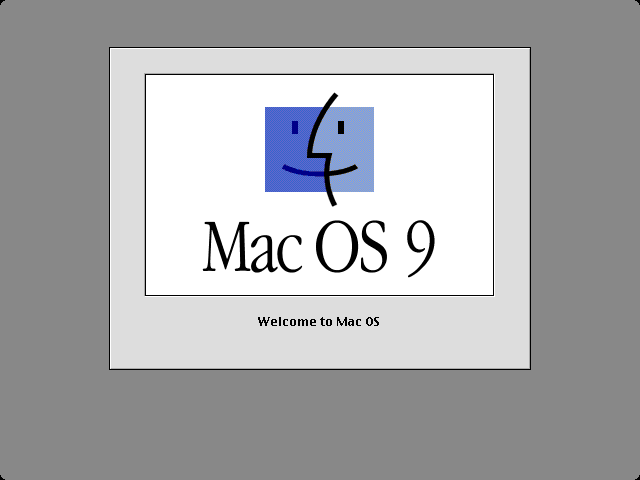
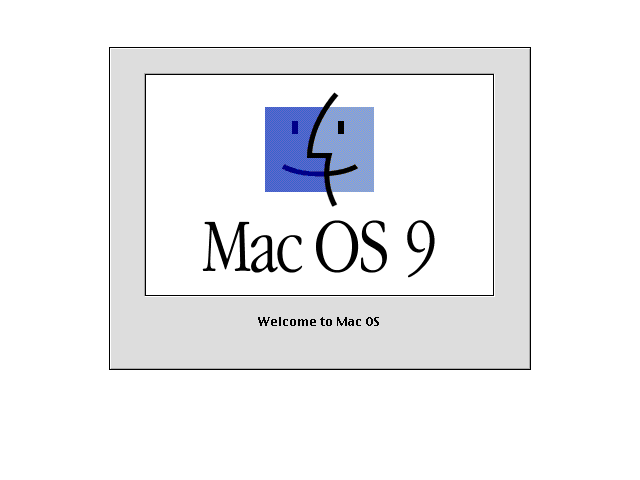
boot: the machine's whole screen at any size; phones read every line
Micah, 2026-11-08, on the Mac OS 9 startup: "absolute crap".

- The Mac boot bitmaps keep only their art (CRT corners and screen cleared);
  the page behind is the machine's own: Mac OS 9 flat #888, System 7 its 2x2
  dither. One Happy Mac silhouette cuts both icons (all 106 edge pixels match).
- Narrow screens scale to the box each boot's art fills, not to 640x480; the
  Happy Mac never drops below 48px; below 1x the art smooths instead of losing
  pixel rows. The extension parade runs along the bottom of the screen.
- The boot cuts to the desktop, no crossfade ghosting over About.
- Phones: the menu bar holds one line (period date steps aside, menus tighten,
  the clock leaves below 360px), impact rows and career heads wrap instead of
  ending in ..., the About wordmark fits, Mac OS X's lights leave the title.
- Tablets: where Appearance would cover About, About stays in front.
- Mac desktop icon names are black on a white label, as the Finder drew them.
- ?os=<system> opens a system directly (used by the breakpoint gate).

Checked by site-gate: 6 systems x 10 widths (320-1920) x Chromium and WebKit,
120 renders clean, every contact sheet read; boot frames read at 320, 390,
768, 1440 and 1920. 70 tests.

diff --git a/index.html b/index.html
@@ -712,6 +712,8 @@
       text-shadow: 0 1px 2px rgba(0,0,0,0.6), 0 0 4px rgba(0,0,0,0.3);
     }
     [data-os="mac7"] .icon-label { text-shadow: 1px 1px 0 #000; }
+    /* The Mac Finder drew desktop icon names black on a white label, legible on any picture behind them */
+    [data-os="mac7"] .icon-label, [data-os="mac9"] .icon-label { color: #000; background: #fff; text-shadow: none; }
     [data-os="win31"] .icon-label { text-shadow: none; }
     /* Themes icon dots adapt per theme */
     .ic-dot1 { fill: var(--ic-monitor-screen); }
@@ -822,7 +824,7 @@
        ============================================================ */
     .about-dialog { padding: 12px 14px 10px; }
     .ab-head { display: flex; align-items: center; gap: 14px; margin-bottom: 10px; }
-    .ab-mark { display: none; image-rendering: pixelated; flex-shrink: 0; }
+    .ab-mark { display: none; image-rendering: pixelated; flex-shrink: 0; max-width: 100%; height: auto; }
     .ab-ident { flex: 1; min-width: 0; }
     .about-name { font-size: 20px; font-weight: bold; letter-spacing: -0.3px; }
     .about-title { font-size: 13px; opacity: 0.75; margin-top: 2px; }
@@ -1125,7 +1127,7 @@
     /* ===== MENU BAR CLOCK ===== */
     .menu-clock {
       margin-left: auto; font-size: 12px; padding: 0 8px; cursor: default;
-      font-variant-numeric: tabular-nums;
+      font-variant-numeric: tabular-nums; white-space: pre;
     }
 
     /* ============================================================
@@ -1138,21 +1140,25 @@
        ============================================================ */
     .boot-overlay {
       position: fixed; inset: 0; z-index: 99999; display: flex; align-items: center; justify-content: center;
-      overflow: hidden; background: #000; opacity: 1; transition: opacity 0.3s; cursor: default; user-select: none;
+      overflow: hidden; background: #000; opacity: 1; transition: none; cursor: default; user-select: none;
     }
     .boot-overlay.fade { opacity: 0; pointer-events: none; }
     .boot-stage { position: relative; width: 640px; height: 480px; flex: none; transform-origin: center center; overflow: hidden; }
     .boot-hidden { display: none !important; }
-    .boot-ext-strip { position: absolute; left: 8px; right: 8px; bottom: 8px; display: flex; gap: 6px; align-items: flex-end; }
-    .boot-ext-chip { width: 32px; height: 32px; opacity: 0; animation: bootExtPop 0.2s steps(2) forwards; }
-    .boot-ext-chip img, .boot-ext-chip svg { width: 32px; height: 32px; image-rendering: pixelated; display: block; }
+    .boot-ext-strip { position: absolute; left: calc(8px * var(--boot-s, 1)); right: calc(8px * var(--boot-s, 1)); bottom: calc(8px * var(--boot-s, 1)); display: flex; flex-wrap: wrap-reverse; gap: calc(6px * var(--boot-s, 1)); align-items: flex-end; }
+    .boot-ext-chip { width: calc(32px * var(--boot-s, 1)); height: calc(32px * var(--boot-s, 1)); opacity: 0; animation: bootExtPop 0.2s steps(2) forwards; }
+    .boot-ext-chip img, .boot-ext-chip svg { width: 100%; height: 100%; image-rendering: pixelated; display: block; }
     @keyframes bootExtPop { to { opacity: 1; } }
     .boot-happy { position: absolute; left: 50%; top: 50%; width: 48px; height: 48px; margin: -24px 0 0 -24px; }
     .boot-happy svg { width: 100%; height: 100%; image-rendering: pixelated; }
 
     /* ---- Every screen is the period bitmap (GUIdebook startup screenshots, 640x480) with only the moving parts layered on top ---- */
     .boot-bitmap { position: absolute; left: 0; top: 0; width: 640px; height: 480px; image-rendering: pixelated; display: block; }
-    .boot-overlay.boot-mac7 { background: #808080; }
+    /* the Happy Mac never shrinks below 48px: on a phone the prelude grows about its own center */
+    .boot-bitmap.b-prelude { transform: scale(var(--happy-k, 1)); transform-origin: 319.5px 239.5px; }
+    /* below 1x, nearest-neighbor drops whole pixel rows and the Chicago lettering turns to mush: smooth instead */
+    .boot-overlay.boot-small .boot-bitmap:not(.b-prelude), .boot-overlay.boot-small .boot-ext-chip img, .boot-overlay.boot-small .boot-ext-chip svg { image-rendering: auto; }
+    .boot-overlay.boot-mac7 { background-color: #fff; background-image: conic-gradient(#000 25%, #fff 0 50%, #000 0 75%, #fff 0); background-size: 2px 2px; }
     .boot-overlay.boot-mac9 { background: #888; }
     .boot-overlay.boot-win31, .boot-overlay.boot-winxp, .boot-overlay.boot-beos { background: #000; }
     .boot-overlay.boot-aqua { background: #426bad; }
@@ -1320,6 +1326,8 @@
   .window.open { display: block !important; }
   .titlebar { cursor: pointer; border-radius: 0 !important; }
   .closebox { display: none; }
+  /* Mac OS X draws its yellow and green lights beside the close box; with it gone they sat on the title */
+  [data-os="aqua"] .titlebar::after { display: none; }
   .win-resize { display: none; }
   .win-body { padding: 12px 16px; }
   #crt-overlay { display: none !important; }
@@ -1329,13 +1337,30 @@
   [data-os="beos"] .titlebar { width: 100%; margin: 0; }
   /* the About box flows as one column on a phone */
   .about-dialog { display: block !important; }
-  .ab-row { grid-template-columns: 14px minmax(0, 1fr) auto 80px; }
+  .ab-row { grid-template-columns: 14px minmax(0, 1fr) auto 56px; }
+  /* every impact row names its work in full on a phone: the name wraps, never ends in ... */
+  .ab-row-name { white-space: normal; overflow: visible; text-overflow: clip; }
+  /* the menu bar holds on one line: the period date steps aside for the time, the menus tighten */
+  .menu-clock-era { display: none; }
+  .menu-item { padding: 2px 6px; }
+  /* a career head stacks on a phone: the employer and years sit under the title instead of running off the edge */
+  .career-head { flex-wrap: wrap; }
+  .career-head span { white-space: normal; margin-left: 0; flex-basis: 100%; }
   [data-os="beos"] .about-thesis { border-left: none; padding-left: 0; }
   /* the XP taskbar and the BeOS Deskbar are sticky top bars on a phone; menus open downward and inside the screen */
   [data-os="winxp"] #menubar { top: 0; bottom: auto; }
   [data-os="winxp"] .menu-dropdown { top: 100%; bottom: auto; }
   [data-os="beos"] #menubar { width: 100%; }
   [data-os="beos"] .menu-dropdown { left: 0; right: auto; }
+}
+@media (max-width: 400px) {
+  .menu-item { padding: 2px 4px; }
+  .menu-apple { margin-right: 6px; }
+  .menu-clock { padding: 0 4px; }
+}
+@media (max-width: 360px) {
+  /* the Mac OS 9 clock was an option (Control Panels > Date & Time); the smallest phones leave it off so every menu fits */
+  .menu-clock { display: none; }
 }
 
     /* ============================================================
@@ -2866,8 +2891,8 @@
       var os = document.documentElement.dataset.os || 'mac7';
       var era = themeEra[os];
       var stamp = h + ':' + (m < 10 ? '0' : '') + m + ' ' + ampm;
-      if (era) stamp += '  \u00B7  ' + era.monAbbr + ' ' + era.year;
       el.textContent = stamp;
+      if (era) { var e = document.createElement('span'); e.className = 'menu-clock-era'; e.textContent = '  \u00B7  ' + era.monAbbr + ' ' + era.year; el.appendChild(e); }
     }
     setInterval(updateClock, 30000);
 
@@ -2893,7 +2918,7 @@
       }
       var sections = ['about', 'career', 'projects', 'contact', 'ask'];
       function parade(ctx, from, every, count) {
-        var strip = ctx.stage.querySelector('.boot-ext-strip'); if (!strip || ctx.shift) return;
+        var strip = ctx.overlay.querySelector('.boot-ext-strip'); if (!strip || ctx.shift) return;
         for (var i = 0; i < count; i++) (function (i) {
           ctx.at(from + i * every, function () {
             var chip = document.createElement('div'); chip.className = 'boot-ext-chip';
@@ -2916,7 +2941,7 @@
         if (a) a.classList.add('boot-hidden'); if (b) b.classList.remove('boot-hidden');
       }
       var THEMES = {
-        mac7: { duration: 2400,
+        mac7: { duration: 2400, box: [448, 126],
           html: function (ctx) {
             return bitmap('mac7-happy', 'b-prelude') + bitmap('mac7-welcome', 'b-main boot-hidden') +
               (ctx.shift ? '<div class="b7-extoff boot-hidden">Extensions Off</div>' : '') + '<div class="boot-ext-strip"></div>';
@@ -2925,7 +2950,7 @@
             ctx.at(800, function () { swapTo(ctx, '.b-prelude', '.b-main'); var e = ctx.stage.querySelector('.b7-extoff'); if (e) e.classList.remove('boot-hidden'); });
             parade(ctx, 1000, 120, 10);
           } },
-        mac9: { duration: 3200,
+        mac9: { duration: 3200, box: [422, 323],
           html: function (ctx) {
             return bitmap('mac9-happy', 'b-prelude') + bitmap('mac9-welcome', 'b-main boot-hidden') +
               '<div class="b9-cover boot-hidden"></div><div class="b9-starting boot-hidden">' + (ctx.shift ? 'Extensions Off' : 'Starting up...') + '</div>' +
@@ -2939,7 +2964,7 @@
             });
             parade(ctx, 1200, 100, 16);
           } },
-        win31: { duration: 2800,
+        win31: { duration: 2800, box: [356, 426],
           html: function () {
             return '<div class="w31-dos">Starting MS-DOS...\n\nC:\\&gt;<span class="w31-typed"></span><span class="w31-cursor">_</span></div>' + bitmap('win31-splash', 'b-main boot-hidden');
           },
@@ -2948,11 +2973,11 @@
             ['w', 'wi', 'win'].forEach(function (t, i) { ctx.at(420 + i * 150, function () { typed.textContent = t; }); });
             ctx.at(1150, function () { swapTo(ctx, '.w31-dos', '.b-main'); });
           } },
-        winxp: { duration: 3200,
+        winxp: { duration: 3200, box: [598, 339],
           html: function () {
             return bitmap('winxp-splash') + '<div class="xp-track"><div class="xp-blocks"><i></i><i></i><i></i></div></div>';
           } },
-        aqua: { duration: 6200,
+        aqua: { duration: 6200, box: [307, 235],
           /* Mac OS X 10.1: the gray Happy Mac holds for a beat, then the pinstripe panel with the Aqua apple,
              the bar, "Welcome to Macintosh." and the startup items printing beneath it, the way the real boot did. */
           html: function () {
@@ -2965,7 +2990,7 @@
               ctx.at(step[0], function () { if (status) status.textContent = step[1] + '...'; });
             });
           } },
-        beos: { duration: 3000,
+        beos: { duration: 3000, box: [565, 446],
           html: function () {
             var dims = '';
             for (var i = 0; i < 7; i++) dims += '<div class="be-dim" style="left:' + (184 + i * 64 - 31) + 'px;top:' + (134 - 31) + 'px"></div>';
@@ -2992,8 +3017,20 @@
           at: function (ms, fn) { var step = { ms: ms, fn: fn, fired: false }; ctx.steps.push(step);
             var id = setTimeout(function () { if (step.fired) return; step.fired = true; fn(); }, isReduced ? Math.min(ms, 120) : ms); ctx.timers.push(id); return id; } };
         stage.innerHTML = t.html(ctx);
+        /* the extension parade runs along the bottom of the whole screen, as it did, not of the 640x480 picture */
+        var strip = stage.querySelector('.boot-ext-strip'); if (strip) overlay.appendChild(strip);
         document.body.appendChild(overlay);
-        function fit() { var s = Math.min(window.innerWidth / W, window.innerHeight / H); s = Math.max(0.5, Math.min(s, 2.2)); stage.style.transform = 'scale(' + s + ')'; }
+        /* Wide screens show the machine's whole 640x480 screen. Narrow ones scale to the box the art fills
+           (t.box), so a phone gets a readable Welcome box instead of a 4:3 band with a speck in it. */
+        function fit() {
+          var vw = window.innerWidth, vh = window.innerHeight, s = Math.min(vw / W, vh / H);
+          if (vw < 700 && t.box) s = Math.min(vw * 0.92 / t.box[0], vh * 0.8 / t.box[1]);
+          s = Math.max(0.5, Math.min(s, 2.2));
+          stage.style.transform = 'scale(' + s + ')';
+          overlay.style.setProperty('--boot-s', String(Math.max(0.75, s)));
+          stage.style.setProperty('--happy-k', String(Math.max(1, 48 / (32 * s))));
+          overlay.classList.toggle('boot-small', s < 1);
+        }
         fit(); window.addEventListener('resize', fit);
         var finished = false;
         function finish(skipped) {
@@ -3467,6 +3504,9 @@
       a11yInit();
       analyticsInit();
       var saved = localStorage.getItem('os-theme');
+      /* ?os=winxp opens that system directly and keeps it, as picking it in Appearance would (a shared link, the breakpoint gate) */
+      var asked = null; try { asked = new URLSearchParams(location.search).get('os'); } catch (e) {}
+      if (asked && BootEngine.themes[asked]) saved = asked;
       var activeOs = saved || 'mac9';
       setTheme(activeOs);
       var themeWp = localStorage.getItem('wallpaper-' + activeOs);
@@ -3496,6 +3536,9 @@
         openWin('about');
         if (window.innerWidth >= 1280) openWin('career');
         openWin('themes');
+        /* where there is no room beside About (a tablet), Appearance waits behind it instead of hiding it */
+        var ab = document.getElementById('win-about'), th = document.getElementById('win-themes');
+        if (ab && th && overlapArea(winRect(ab), winRect(th)) > 0) bringToFront('about');
       }
       BootEngine.setIcons(BOOT_EXTENSIONS);
       BootEngine.bootOnLoad(activeOs);
